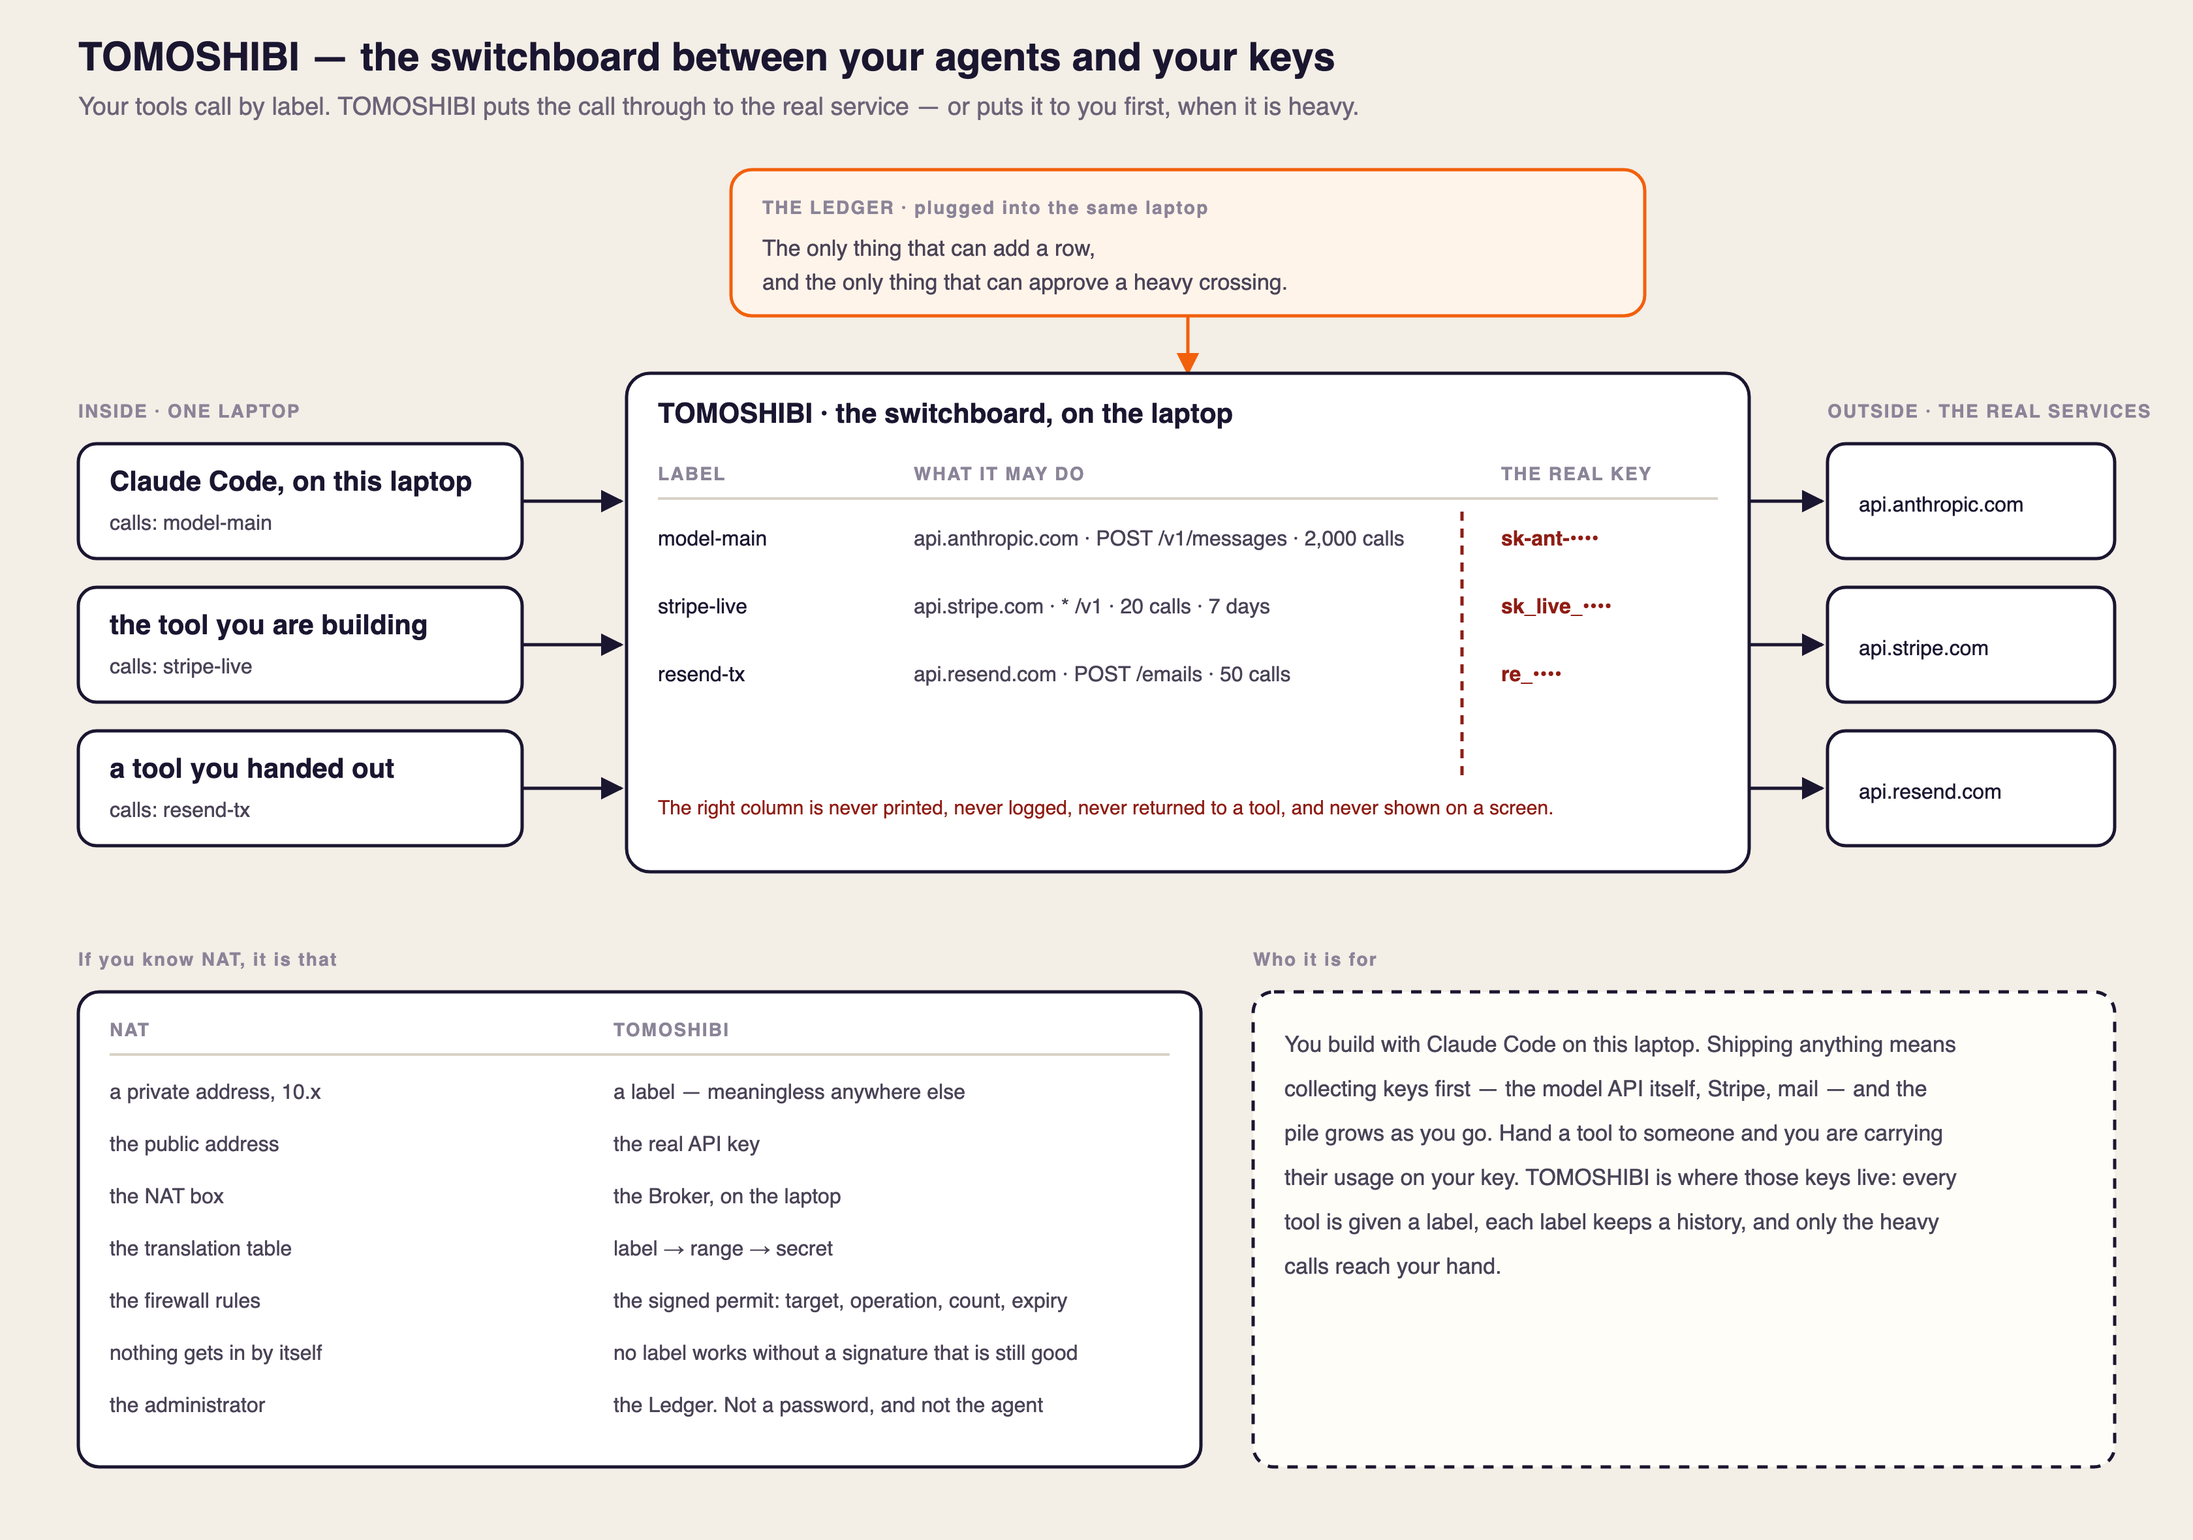
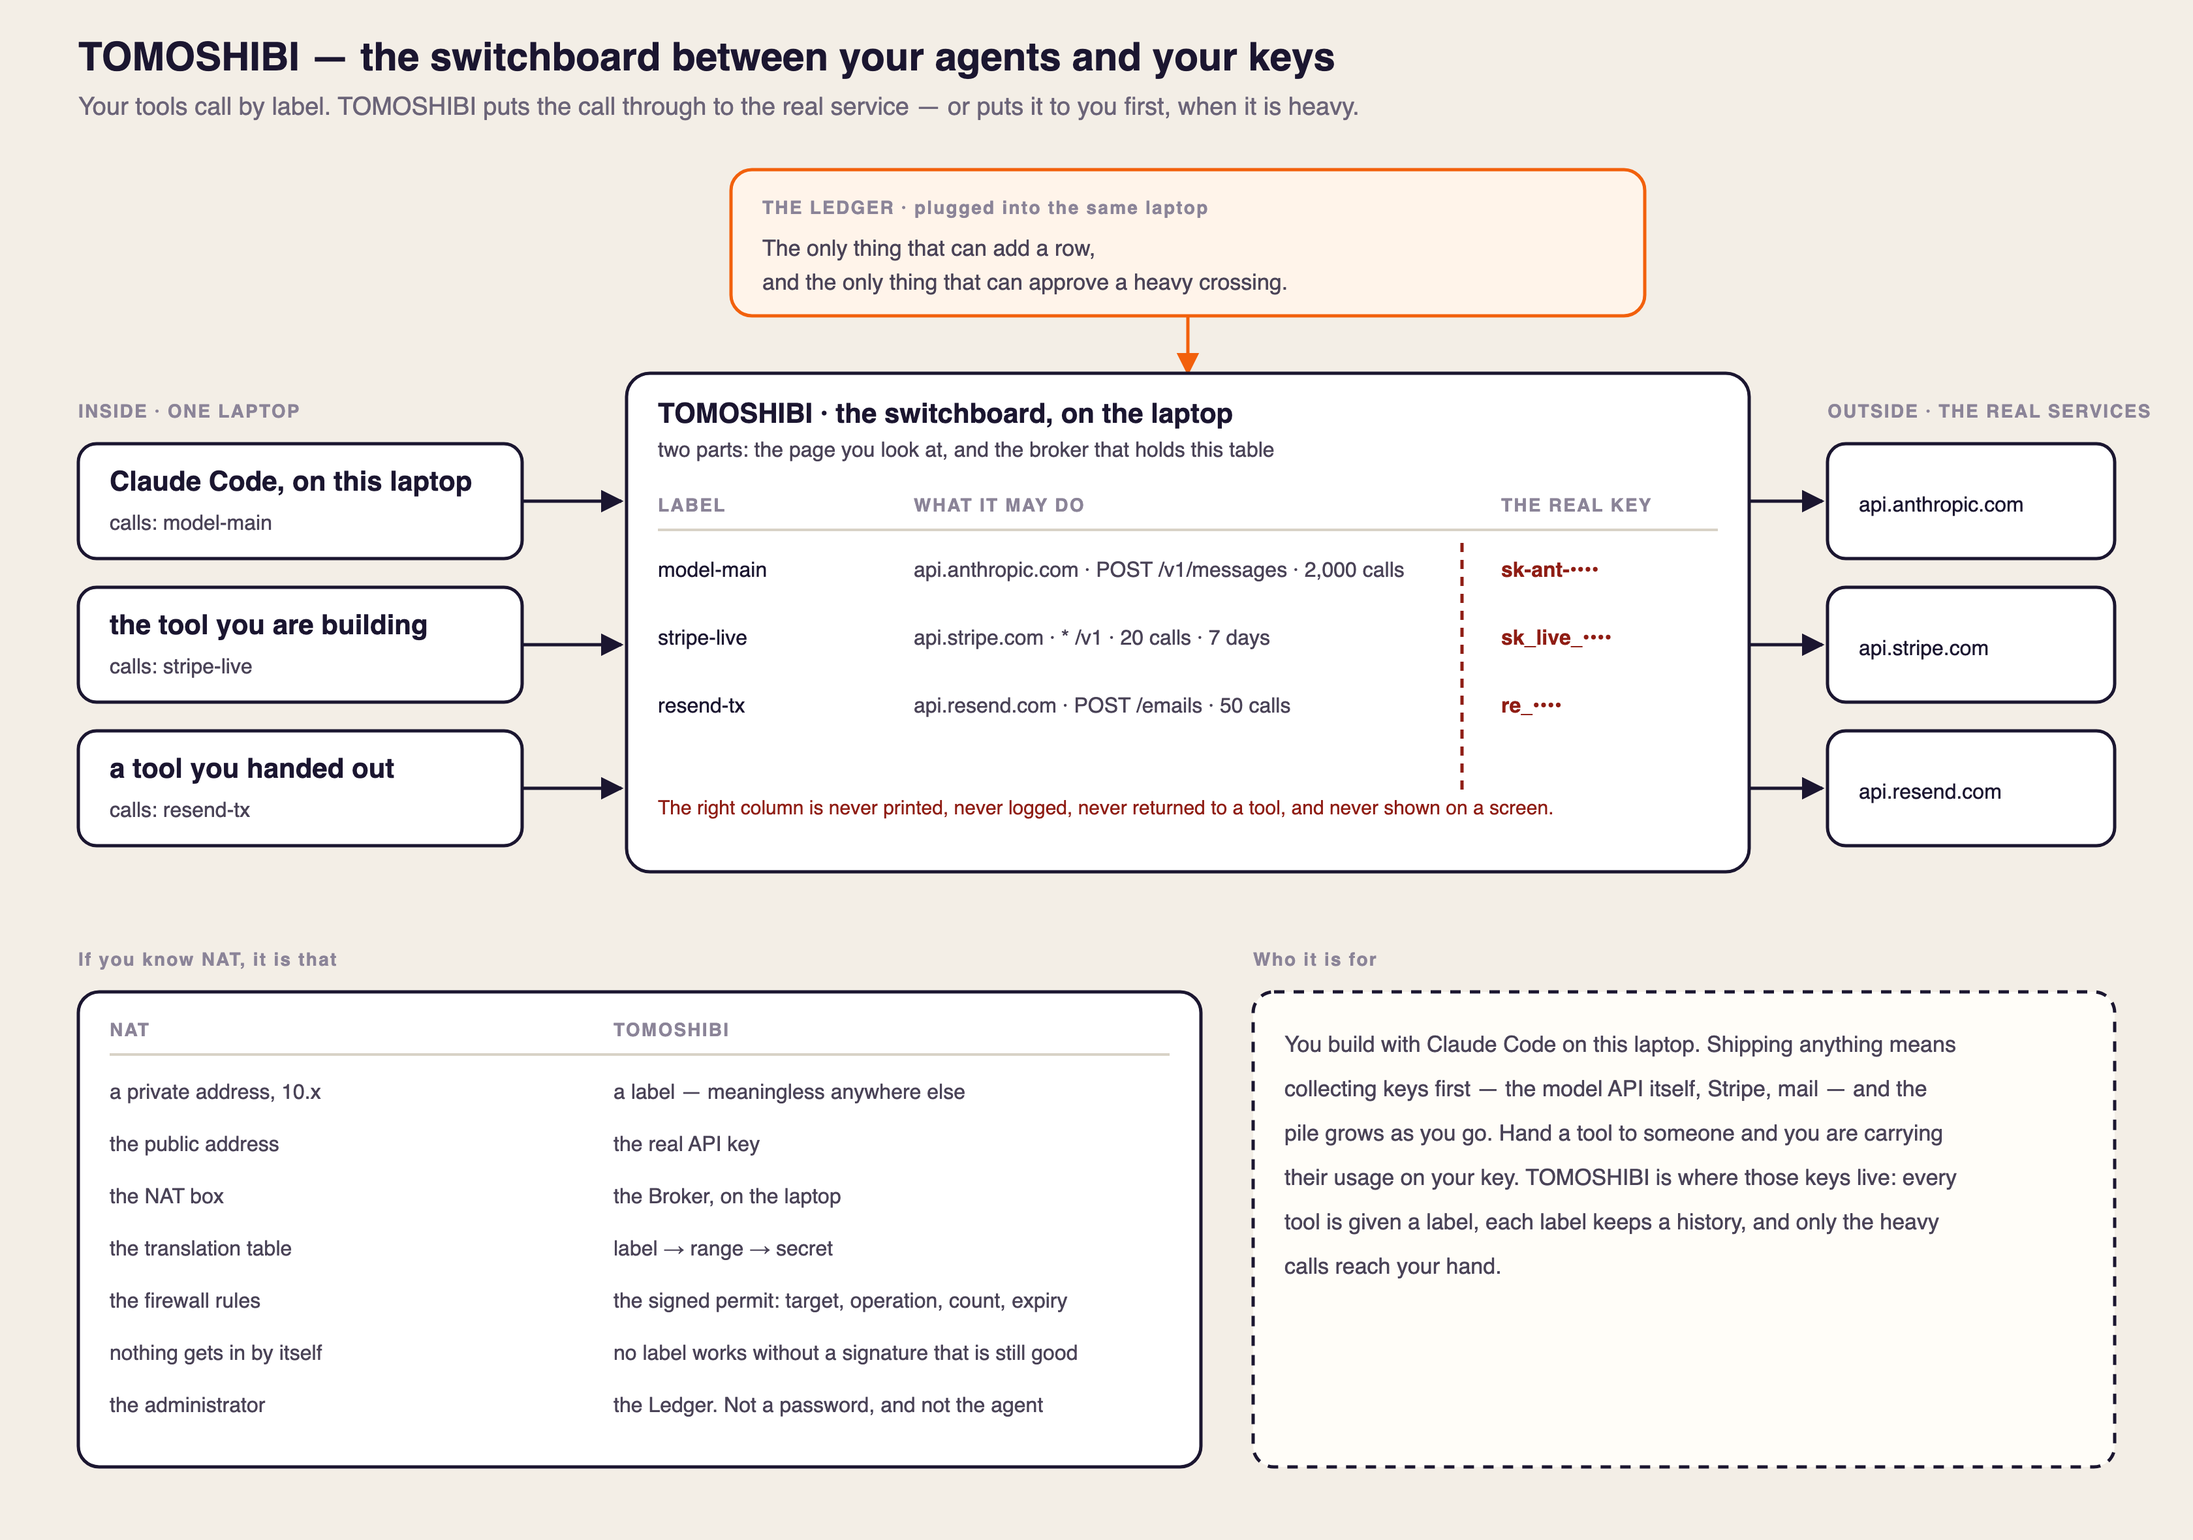
The far half: what the table leaves behind
The switchboard figure stopped at custody, which is the near half of the
point. The table exists so that a lineage exists: every call is a row,
the rows are the history of one version of one tool, and that is the only
thing a person can honestly vouch for.

- assets/trust.svg|png (and the Japanese copy): use happened, the heavy
  ones were pressed, the thread is sealed, one person once. Beside it,
  what a star costs here and what is never kept, and the line that a
  version bump puts the stars out.
- Says why the weighing is 0G's job rather than a rule in a config file:
  the heavy ones are the ones worth asking a person about and worth
  recording as having been asked. Everything else passes untouched.
- The figure box now names TOMOSHIBI's two parts — the page a person looks
  at, and the broker holding the table.
- Deck slide 6 drops the three-party loop for this. The shopkeeper was the
  old persona; the person we are talking about is the one building tools.
- A class rule beats a presentation attribute in SVG, so the highlighted
  card was coming out white. It sets style= now.

Changed region(s): [[0.2812, 0.2784, 0.75, 0.464]]

diff --git a/ideation/2026-11-07-deck.html b/ideation/2026-11-07-deck.html
@@ -129,9 +129,9 @@
 
   <!-- 2:28 – 2:40 -->
   <section class="s">
-    <span class="eyebrow">WHO IT IS FOR</span>
-    <h2>Three people, <mark>one loop</mark></h2>
-    <img src="../assets/trust-loop.png" alt="the maker, the marketplace and the shopkeeper">
+    <span class="eyebrow">WHAT IT LEAVES BEHIND</span>
+    <h2>A star you can <mark>check</mark>, not believe</h2>
+    <img src="../assets/trust.png" alt="use, press, seal, and one human star per version">
     <p class="gray">We charge for judgement and display — never a cut of the money that moved.</p>
     <span class="n">6</span>
   </section>

diff --git a/assets/build-figures.py b/assets/build-figures.py
@@ -1,10 +1,10 @@
 #!/usr/bin/env python3
 """Build the two load-bearing figures in both languages from one source, so they cannot drift.
 
-    python3 assets/build-figures.py        # writes assets/nat-*.svg and assets/sequence-*.svg
+    python3 assets/build-figures.py        # writes nat / sequence / trust, both languages
 
 The repo is written in English, so only the English figures are committed (assets/nat.svg,
-assets/sequence.svg). The Japanese copies are written one directory above the repo and are
+assets/sequence.svg, assets/trust.svg). The Japanese copies are written one directory above the repo and are
 for reading, not for the submission.
 """
 import pathlib
@@ -19,6 +19,7 @@ T = {
   'inside': 'INSIDE · ONE LAPTOP',
   'outside': 'OUTSIDE · THE REAL SERVICES',
   'box': 'TOMOSHIBI · the switchboard, on the laptop',
+  'box_sub': 'two parts: the page you look at, and the broker that holds this table',
   'tools': [('Claude Code, on this laptop', 'calls: model-main'),
             ('the tool you are building', 'calls: stripe-live'),
             ('a tool you handed out', 'calls: resend-tx')],
@@ -63,6 +64,29 @@ T = {
     (1, 0, 'the result, and a hash of it. Never the key', ''),
     (1, 1, 'append to the trail → 0G Storage', 'allowed and refused, in the same place'),
   ],
+  'tr_title': 'What the switchboard leaves behind',
+  'tr_sub': 'Every call is a row. The rows are a lineage. A lineage is the only thing a person can vouch for.',
+  'tr_cards': [('the call happened', 'on a permit this person signed,', 'inside a range they set themselves'),
+               ('the heavy ones were pressed', '0G called it decisive, and the Ledger in', 'their hand said yes — or it never ran'),
+               ('the thread is sealed', '0G Storage. The lineage of this version,', 'and nobody can go back and tidy it'),
+               ('one person, once', 'World ID. A star they can light only for', 'a version they actually used')],
+  'tr_why_t': 'Why the number means something here',
+  'tr_why': ['A star count means nothing when anyone can make a star.',
+             'Here one star costs a real key, a range signed on a device,',
+             'calls actually spent, and a human who can only do it once.',
+             'So it is not a review count. It is a lineage of real use with a',
+             'person at the end of it — the first thing in this market you',
+             'can check instead of believe.'],
+  'tr_keep_t': 'And what is never kept',
+  'tr_keep': ['The key is never given to a tool.',
+              'The body of a request is weighed',
+              'and kept nowhere.',
+              'The holder\'s address is never',
+              'written into a star.',
+              'Nothing is asked of the person on',
+              'an ordinary call. Only the heavy',
+              'ones reach their hand.'],
+  'tr_foot': 'When the version changes, the stars go out. Nobody inherits a reputation from code they did not run.',
  },
  'ja': {
   'font': 'Hiragino Sans, Hiragino Kaku Gothic ProN, Helvetica, sans-serif',
@@ -71,6 +95,7 @@ T = {
   'inside': '内側 · ノートパソコン1台',
   'outside': '外側 · 本物のサービス',
   'box': '灯火 · 交換台（ノートパソコンの中）',
+  'box_sub': '2つからなる：人が見る画面と、この表を持つ Broker',
   'tools': [('このパソコンの Claude Code', '呼ぶのは model-main'),
             ('いま作っている道具', '呼ぶのは stripe-live'),
             ('誰かに配った道具', '呼ぶのは resend-tx')],
@@ -114,6 +139,28 @@ T = {
     (1, 0, '結果と、そのハッシュ。キーは返さない', ''),
     (1, 1, '台帳に追記 → 0G Storage', '許可も拒否も、同じ場所に'),
   ],
+  'tr_title': '交換台が、あとに残すもの',
+  'tr_sub': '呼び出しは1行になる。行は系譜になる。人が保証できるのは、系譜だけ。',
+  'tr_cards': [('使われた、という事実', '本人が署名した許可の上で、', '本人が決めた範囲の中で'),
+               ('重いものは、押された', '0G が decisive と言い、手元の Ledger', 'がはいと言った。でなければ走っていない'),
+               ('履歴が封じられる', '0G Storage。このバージョンの系譜で、', 'あとから整え直せない'),
+               ('一人の人間が、一度だけ', 'World ID。実際に使ったバージョンに', 'しか灯をともせない')],
+  'tr_why_t': 'ここでは、なぜ数に意味があるのか',
+  'tr_why': ['誰でも星を作れるなら、星の数には何の意味もない。',
+             'ここで星1つに要るのは、本物のキー、端末で署名した範囲、',
+             '実際に使った回数、そして一度しか押せない人間が一人。',
+             'だからこれはレビュー件数ではなく、実際の利用の系譜で、',
+             'その端に人がいる。この市場で初めて、信じるのではなく',
+             '確かめられるもの。'],
+  'tr_keep_t': '逆に、残さないもの',
+  'tr_keep': ['キーを道具に渡すことはない。',
+              '要求の本文は、重さを測るだけで',
+              'どこにも残さない。',
+              '星に保有者のアドレスは書かない。',
+              '普通の呼び出しでは、人に何も',
+              '聞かない。重いものだけが',
+              '手元に来る。'],
+  'tr_foot': 'バージョンが変われば、灯は消える。走らせていないコードの評判を、誰も引き継げない。',
  },
 }
 
@@ -169,17 +216,18 @@ def nat(L):
     # the table
     a('<rect class="card" x="480" y="286" width="860" height="382" rx="18" fill="#fffdf8"/>')
     a(f'<text class="h" x="504" y="324">{esc(L["box"])}</text>')
+    a(f'<text class="m" x="504" y="350">{esc(L["box_sub"])}</text>')
     th = L['thead']
-    a(f'<text class="k" x="504" y="368">{esc(th[0])}</text>')
-    a(f'<text class="k" x="700" y="368">{esc(th[1])}</text>')
-    a(f'<text class="k" x="1150" y="368">{esc(th[2])}</text>')
-    a('<path d="M504 382 L1316 382" stroke="#d8d2c6" stroke-width="2"/>')
+    a(f'<text class="k" x="504" y="392">{esc(th[0])}</text>')
+    a(f'<text class="k" x="700" y="392">{esc(th[1])}</text>')
+    a(f'<text class="k" x="1150" y="392">{esc(th[2])}</text>')
+    a('<path d="M504 406 L1316 406" stroke="#d8d2c6" stroke-width="2"/>')
     for i, (lab, rng, key) in enumerate(L['rows']):
-        y = 418 + i * 52
+        y = 442 + i * 52
         a(f'<text class="lab" x="504" y="{y}">{esc(lab)}</text>')
         a(f'<text class="m" x="700" y="{y}">{esc(rng)}</text>')
         a(f'<text class="key" x="1150" y="{y}">{esc(key)}</text>')
-    a('<path d="M1120 392 L1120 594" stroke="#8f1d14" stroke-width="2.5" stroke-dasharray="7 6"/>')
+    a('<path d="M1120 416 L1120 608" stroke="#8f1d14" stroke-width="2.5" stroke-dasharray="7 6"/>')
     a(f'<text class="note" x="504" y="624">{esc(L["keynote"])}</text>')
 
     # outside
@@ -242,10 +290,45 @@ def sequence(L):
     a('</svg>')
     return '\n'.join(o)
 
+def trust(L):
+    w, h = 1680, 860
+    o = [HEAD.format(w=w, h=h, font=L['font'], css=CSS.format())]
+    a = o.append
+    a(f'<text class="ttl" x="60" y="54">{esc(L["tr_title"])}</text>')
+    a(f'<text class="sub" x="60" y="88">{esc(L["tr_sub"])}</text>')
+
+    for i, (title, l1, l2) in enumerate(L['tr_cards']):
+        x = 60 + i * 393
+        # a class rule beats a presentation attribute in SVG, so the highlight goes in style=
+        a(f'<rect class="card" x="{x}" y="150" width="350" height="186" rx="16" style="fill:{"#ffd0ad" if i == 3 else "#fffdf8"}"/>')
+        a(f'<circle cx="{x+34}" cy="190" r="17" fill="#1b1630"/>')
+        a(f'<text class="num" x="{x+34}" y="196" text-anchor="middle">{i+1}</text>')
+        a(f'<text class="h" x="{x+24}" y="256">{esc(title)}</text>')
+        a(f'<text class="m" x="{x+24}" y="290">{esc(l1)}</text>')
+        a(f'<text class="m" x="{x+24}" y="316">{esc(l2)}</text>')
+        if i < 3:
+            a(f'<path d="M{x+350} 243 L{x+387} 243" stroke="#1b1630" stroke-width="2.5" marker-end="url(#a)"/>')
+
+    a(f'<text class="k" x="60" y="396">{esc(L["tr_why_t"])}</text>')
+    a('<rect class="card" x="60" y="416" width="960" height="264" rx="16" fill="#fffdf8"/>')
+    for i, line in enumerate(L['tr_why']):
+        a(f'<text class="t" x="84" y="{460 + i * 36}">{esc(line)}</text>')
+
+    a(f'<text class="k" x="1060" y="396">{esc(L["tr_keep_t"])}</text>')
+    a('<rect x="1060" y="416" width="560" height="264" rx="16" fill="#fffdf8" stroke="#8f1d14" stroke-width="2.5" stroke-dasharray="8 7"/>')
+    for i, line in enumerate(L['tr_keep']):
+        a(f'<text class="t" x="1084" y="{456 + i * 30}">{esc(line)}</text>')
+
+    a('<rect x="60" y="716" width="1560" height="88" rx="16" fill="#FFF4EA" stroke="#f2600c" stroke-width="2.5"/>')
+    a(f'<text class="t" x="84" y="768">{esc(L["tr_foot"])}</text>')
+    a('</svg>')
+    return '\n'.join(o)
+
+
 for lang, L in T.items():
     out = OUT if lang == 'en' else OUT.parent.parent
     suffix = '' if lang == 'en' else '-ja'
-    for name, build in (('nat', nat), ('sequence', sequence)):
+    for name, build in (('nat', nat), ('sequence', sequence), ('trust', trust)):
         path = out / f'{name}{suffix}.svg'
         path.write_text(build(L), encoding='utf-8')
         print('wrote', path)

diff --git a/README.md b/README.md
@@ -75,6 +75,22 @@ so the two languages cannot drift apart. The figures, this page and the deck are
 from one place: **[`docs/HOW-IT-RUNS.md`](docs/HOW-IT-RUNS.md)** — the processes, the state and
 the sequence, read off the code. If anything here disagrees with that page, that page is right.
 
+## What accumulates
+
+![What the switchboard leaves behind: use, press, seal, and one human star](assets/trust.png)
+
+The table is the near half. The far half is what the table leaves behind. Every call becomes a
+row; the rows become the lineage of one version of one tool, sealed into 0G Storage where
+nobody can go back and tidy it. That lineage is what makes a star mean something: here a star
+costs a real key, a range signed on a device, calls actually spent, and a human who can only do
+it once through World ID. Not a review count — a record of real use with a person at the end of
+it. And when the version changes, the stars go out.
+
+This is why the weighing is 0G's job and not a rule in a config file: the heavy ones are the
+ones worth asking a person about and worth recording as having been asked. Everything else
+passes without touching anybody. **So the word of mouth in this market is checkable rather
+than believable** — the thing a marketplace of agents and tools has never had.
+
 ## What it does, in four parts
 
 Everything in this repository is one of four things. The rest is support.

diff --git a/docs/HOW-IT-RUNS.md b/docs/HOW-IT-RUNS.md
@@ -27,7 +27,14 @@ that can approve a crossing the weighing called heavy.
 | the administrator | the Ledger in your hand |
 | connection log | `data/ledger.jsonl`, append-only |
 
-The figures `assets/nat.svg` and `assets/sequence.svg` are generated from
+And then it is a record. The same table that holds the keys produces, as a by-product of
+every call, the lineage of what each tool actually did with one: `data/ledger.jsonl`, sealed
+into 0G Storage. A star (`/vouch`) can only be lit by an address that holds a valid permit for
+that exact version **and** has spent calls on it, confirmed once by World ID — so the count is
+a count of real use by real people, not of accounts. `store.js` drops every star for a version
+when the version changes.
+
+The figures `assets/nat.svg`, `assets/sequence.svg` and `assets/trust.svg` are generated from
 `assets/build-figures.py`, which holds both languages in one dictionary.
 
 ## 1. Processes
